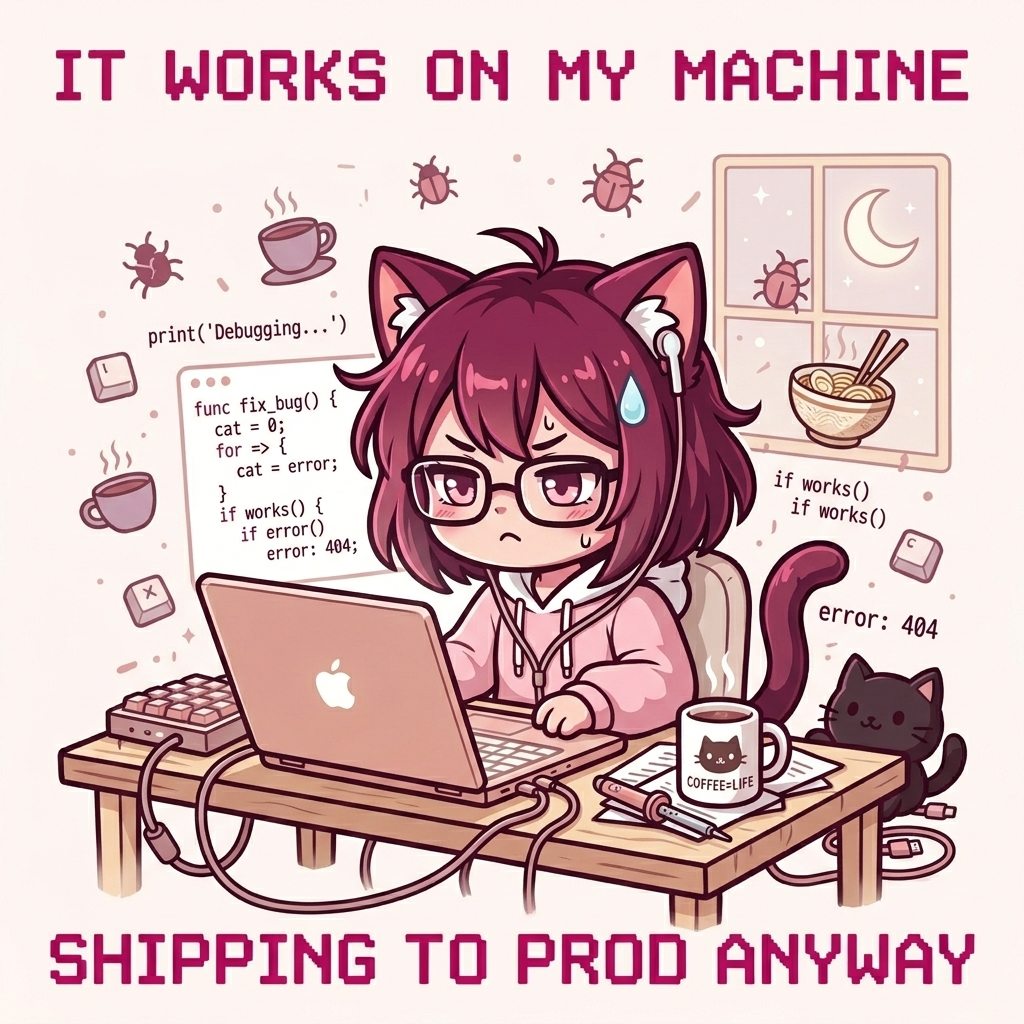
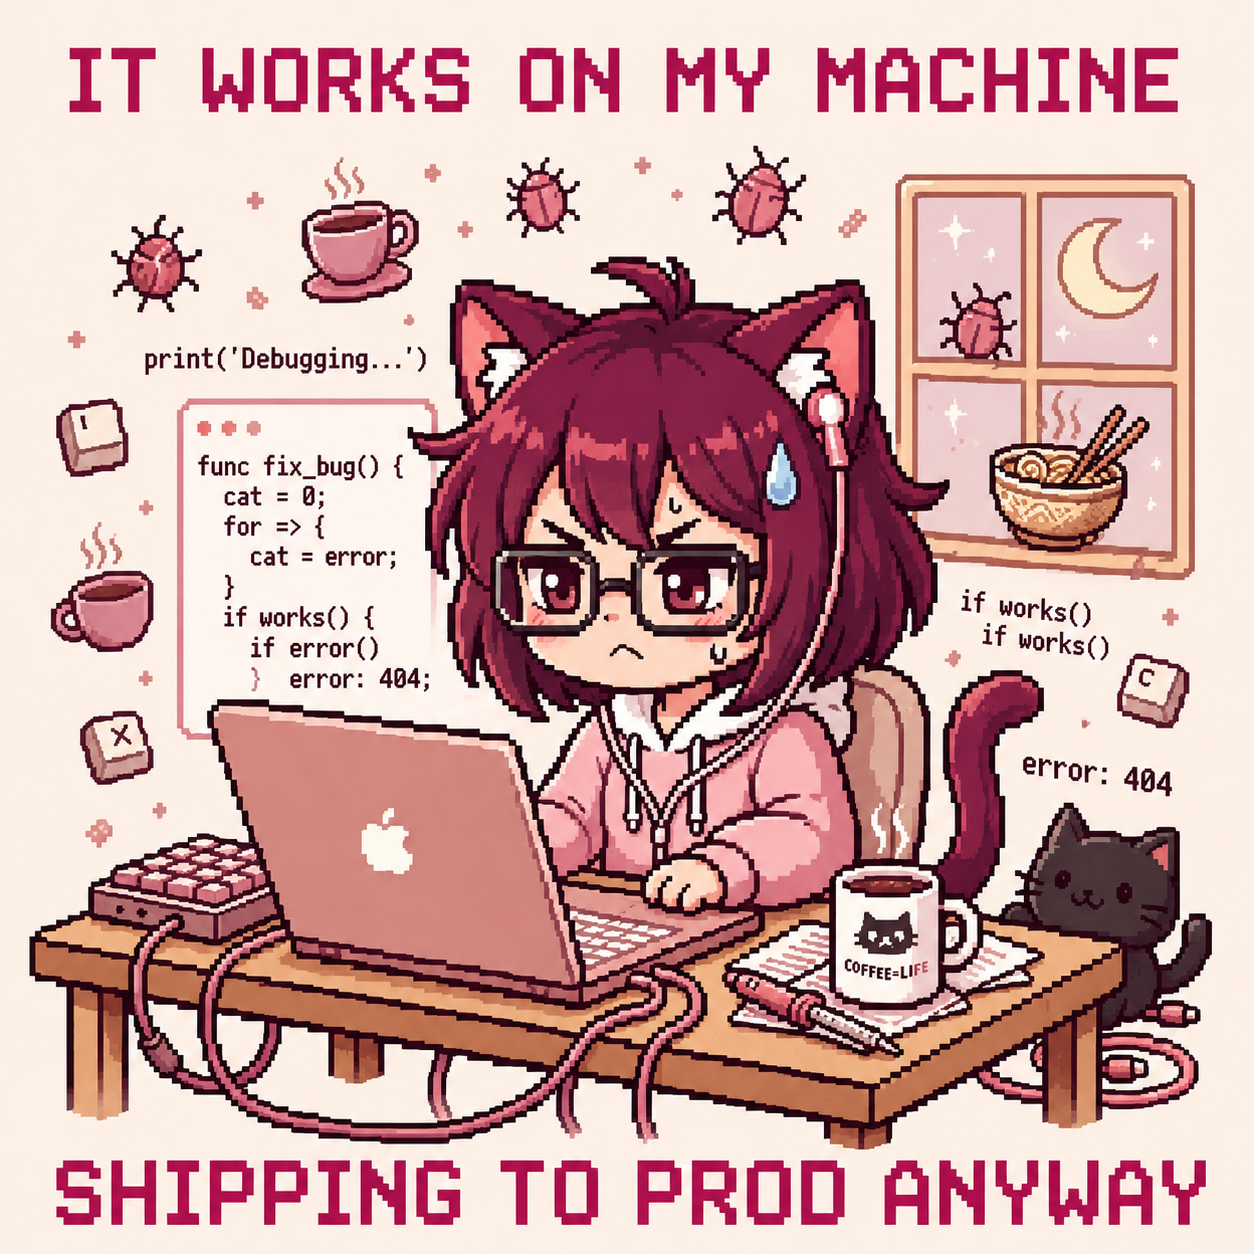
fix: updated meme photos & responsive ui

diff --git a/src/index.css b/src/index.css
@@ -65,6 +65,9 @@ body  {
   cursor: none;
   transition: background 0.4s var(--ease), color 0.4s var(--ease);
 }
+@media (pointer: coarse) {
+  body { cursor: auto; }
+}
 a { color: inherit; text-decoration: none; }
 img { display: block; max-width: 100%; }
 
@@ -91,6 +94,10 @@ img { display: block; max-width: 100%; }
 }
 .cursor-rose.hover  { width: 18px; height: 18px; transform: translate(-50%,-50%) rotate(10deg) scale(0.9); filter: drop-shadow(0 0 9px var(--pink)); }
 .cursor-ring.hover { width: 44px; height: 44px; border-color: var(--pink); opacity: .8; }
+/* Dokunmatik cihazlarda özel imleci gizle */
+@media (pointer: coarse) {
+  .cursor-rose, .cursor-ring { display: none !important; }
+}
 
 /* ── BACKGROUND NOISE ────────────────────────────────────────── */
 .bg-noise {
@@ -160,6 +167,72 @@ img { display: block; max-width: 100%; }
   width: 38px; height: 1px;
   background: var(--pink);
   opacity: .35;
+}
+
+/* ── HAMBURGER MENU ──────────────────────────────────────────── */
+.hamburger {
+  display: none;
+  flex-direction: column;
+  justify-content: center;
+  gap: 5px;
+  width: 36px; height: 36px;
+  background: none; border: none;
+  cursor: pointer;
+  padding: 4px;
+  z-index: 101;
+  position: relative;
+}
+.hamburger span {
+  display: block;
+  width: 22px; height: 1.5px;
+  background: var(--pink-lt);
+  border-radius: 2px;
+  transition: transform .35s var(--ease), opacity .35s var(--ease), width .35s var(--ease);
+  transform-origin: center;
+}
+.hamburger.open span:nth-child(1) { transform: translateY(6.5px) rotate(45deg); }
+.hamburger.open span:nth-child(2) { opacity: 0; width: 0; }
+.hamburger.open span:nth-child(3) { transform: translateY(-6.5px) rotate(-45deg); }
+
+/* Mobil nav drawer */
+.mobile-nav {
+  display: none;
+  position: fixed;
+  inset: 0;
+  z-index: 99;
+  flex-direction: column;
+  align-items: center;
+  justify-content: center;
+  gap: 2.5rem;
+  background: rgba(9,9,9,.97);
+  backdrop-filter: blur(18px);
+  -webkit-backdrop-filter: blur(18px);
+  opacity: 0;
+  pointer-events: none;
+  transition: opacity .35s var(--ease);
+}
+[data-theme="light"] .mobile-nav {
+  background: rgba(253,246,249,.97);
+}
+.mobile-nav.open {
+  opacity: 1;
+  pointer-events: all;
+}
+.mobile-nav-link {
+  font-family: var(--serif);
+  font-size: 2rem;
+  font-weight: 300;
+  font-style: italic;
+  color: var(--txt-2);
+  letter-spacing: .06em;
+  transition: color var(--t), transform var(--t);
+  text-decoration: none;
+}
+.mobile-nav-link:hover, .mobile-nav-link:active { color: var(--pink-lt); transform: translateX(4px); }
+.mobile-nav-divider {
+  width: 1px; height: 32px;
+  background: var(--pink-border);
+  opacity: .4;
 }
 
 /* ── THEME TOGGLE ────────────────────────────────────────────── */
@@ -371,7 +444,7 @@ img { display: block; max-width: 100%; }
 
 /* ── HERO ────────────────────────────────────────────────────── */
 .hero {
-  min-height: 100vh;
+  min-height: 100svh;
   display: grid;
   grid-template-columns: 1fr 1fr;
   align-items: center;
@@ -445,7 +518,7 @@ img { display: block; max-width: 100%; }
 
 .hero-meme-wrapper {
   position: relative;
-  width: 420px;
+  width: min(420px, 90vw);
   border-radius: 16px;
   overflow: visible;
 }
@@ -498,8 +571,8 @@ img { display: block; max-width: 100%; }
   background: rgba(255,240,246,.95);
   color: var(--pink);
 }
-.tag-a { top:8%; left:-12%; animation-delay:0s; }
-.tag-b { bottom:12%; right:-6%; animation-delay:2.2s; }
+.tag-a { top:8%; left:-8%; animation-delay:0s; }
+.tag-b { bottom:12%; right:-2%; animation-delay:2.2s; }
 
 .scroll-hint {
   position:absolute; bottom:2.2rem; left:50%; transform:translateX(-50%);
@@ -563,7 +636,7 @@ img { display: block; max-width: 100%; }
 .edu-gpa    { font-size:.75rem; color:var(--pink-ll); margin-top:.2rem; }
 
 .about-stats {
-  display:flex; gap:2rem; align-items:center;
+  display:flex; flex-wrap:wrap; gap:1.5rem 2rem; align-items:center;
   margin-top:2rem; padding-top:2rem; border-top:1px solid var(--border);
 }
 .stat-item  { display:flex; flex-direction:column; gap:.15rem; }
@@ -735,6 +808,8 @@ img { display: block; max-width: 100%; }
   .about-grid   { grid-template-columns:1fr; gap:2.5rem; }
   .skills-layout{ grid-template-columns:1fr; gap:2.5rem; }
   .work-card.featured { grid-template-columns:1fr; }
+  /* Floating tagları küçük sarmalayıcıda gizle */
+  .floating-tag { display: none; }
 }
 @media (max-width: 768px) {
   .section  { padding:5rem 1.5rem; }
@@ -742,6 +817,11 @@ img { display: block; max-width: 100%; }
   .navbar.scrolled { padding:.85rem 1.5rem; }
   .nav-links{ display:none; }
   .nav-line { display:none; }
+  /* Hamburger göster */
+  .hamburger { display: flex; }
+  .mobile-nav { display: flex; }
+  /* Mobile nav'da tema toggle için özel imleç */
+  .theme-toggle { cursor: pointer; }
   .works-grid { grid-template-columns:1fr; }
   .exp-item { grid-template-columns:1fr; }
   .exp-left { text-align:left; margin-bottom:.5rem; }
@@ -750,9 +830,29 @@ img { display: block; max-width: 100%; }
   .footer   { padding:1.5rem; }
   .footer-inner { flex-direction:column; text-align:center; gap:.4rem; }
   .hero-img-wrapper { width:240px; height:280px; }
+  /* Availability badge küçült */
+  .avail-badge { bottom:1rem; right:1rem; padding:.4rem .85rem .4rem .55rem; }
+  .avail-text  { font-size:.66rem; }
+  /* Hero görseli düzelt */
+  .hero { padding: 6rem 1.5rem 3rem; }
+  .hero-meme-wrapper { width: min(300px, 85vw); }
+  /* About stats daha sıkışık */
+  .about-stats { gap: 1rem 1.5rem; }
+  /* İletişim bölümü */
+  .contact-inner { padding-top: 1rem; }
 }
 @media (max-width: 480px) {
-  .hero-name { font-size:2.8rem; }
-  .contact-heading { font-size:2rem; }
-  .section  { padding:4rem 1.2rem; }
+  .hero-name { font-size: clamp(2.4rem, 10vw, 3rem); }
+  .contact-heading { font-size: clamp(1.8rem, 7vw, 2.2rem); }
+  .section  { padding: 4rem 1rem; }
+  .hero { padding: 5.5rem 1rem 3rem; }
+  /* Butonlar yan yana sığmazsa alt alta */
+  .hero-cta { flex-wrap: wrap; gap:.75rem; }
+  .btn-primary, .btn-ghost { width: 100%; text-align: center; }
+  /* Stat değerleri küçült */
+  .stat-value { font-size: 1.6rem; }
+  /* Navbar logo küçült */
+  .nav-logo img { width: 60px !important; height: 60px !important; }
+  /* avail badge */
+  .avail-badge { bottom: .75rem; right: .75rem; }
 }

diff --git a/src/components/Navbar.jsx b/src/components/Navbar.jsx
@@ -4,6 +4,7 @@ import pixelRose from '../assets/pixel-rose.png'
 export default function Navbar() {
   const navRef = useRef(null)
   const [dark, setDark] = useState(true)
+  const [menuOpen, setMenuOpen] = useState(false)
 
   useEffect(() => {
     const onScroll = () => {
@@ -18,40 +19,107 @@ export default function Navbar() {
     document.documentElement.setAttribute('data-theme', dark ? 'dark' : 'light')
   }, [dark])
 
+  // Menü açıkken body scroll'u kilitle
+  useEffect(() => {
+    document.body.style.overflow = menuOpen ? 'hidden' : ''
+    return () => { document.body.style.overflow = '' }
+  }, [menuOpen])
+
   const links = [
-    { href: '#about', label: 'Hakkımda' },
-    { href: '#works', label: 'Projeler' },
-    { href: '#skills', label: 'Beceriler' },
-    { href: '#contact', label: 'İletişim' },
+    { href: '#about',   label: 'Hakkımda' },
+    { href: '#works',   label: 'Projeler'  },
+    { href: '#skills',  label: 'Beceriler' },
+    { href: '#contact', label: 'İletişim'  },
   ]
 
+  const handleMobileLink = (href) => {
+    setMenuOpen(false)
+    // Kısa gecikmeyle scroll yap (drawer kapanma animasyonu tamamlansın)
+    setTimeout(() => {
+      const el = document.querySelector(href)
+      if (el) el.scrollIntoView({ behavior: 'smooth' })
+    }, 320)
+  }
+
   return (
-    <nav ref={navRef} className="navbar">
-      <a href="#hero" className="nav-logo">
-        <img width={80} height={80} src={pixelRose} alt="logo" />
-      </a>
+    <>
+      <nav ref={navRef} className="navbar">
+        <a href="#hero" className="nav-logo">
+          <img width={80} height={80} src={pixelRose} alt="logo" />
+        </a>
 
-      <ul className="nav-links">
-        {links.map(l => (
-          <li key={l.href}>
-            <a href={l.href} className="nav-link">{l.label}</a>
-          </li>
-        ))}
-      </ul>
+        <ul className="nav-links">
+          {links.map(l => (
+            <li key={l.href}>
+              <a href={l.href} className="nav-link">{l.label}</a>
+            </li>
+          ))}
+        </ul>
 
-      {/* Dark / Light mode toggle */}
-      <button
-        id="theme-toggle"
-        className="theme-toggle"
-        aria-label={dark ? 'Açık moda geç' : 'Koyu moda geç'}
-        onClick={() => setDark(d => !d)}
+        <div style={{ display: 'flex', alignItems: 'center', gap: '1rem' }}>
+          {/* Dark / Light mode toggle */}
+          <button
+            id="theme-toggle"
+            className="theme-toggle"
+            aria-label={dark ? 'Açık moda geç' : 'Koyu moda geç'}
+            onClick={() => setDark(d => !d)}
+          >
+            <span className="theme-toggle-track">
+              <span className="theme-toggle-thumb" />
+              <span className="theme-toggle-icon theme-toggle-sun">☀</span>
+              <span className="theme-toggle-icon theme-toggle-moon">🌸</span>
+            </span>
+          </button>
+
+          {/* Hamburger — sadece mobilde görünür */}
+          <button
+            id="hamburger-btn"
+            className={`hamburger${menuOpen ? ' open' : ''}`}
+            aria-label={menuOpen ? 'Menüyü kapat' : 'Menüyü aç'}
+            aria-expanded={menuOpen}
+            onClick={() => setMenuOpen(o => !o)}
+          >
+            <span />
+            <span />
+            <span />
+          </button>
+        </div>
+      </nav>
+
+      {/* Mobil tam ekran drawer */}
+      <div
+        id="mobile-nav"
+        className={`mobile-nav${menuOpen ? ' open' : ''}`}
+        role="dialog"
+        aria-modal="true"
+        aria-label="Navigasyon"
       >
-        <span className="theme-toggle-track">
-          <span className="theme-toggle-thumb" />
-          <span className="theme-toggle-icon theme-toggle-sun">☀</span>
-          <span className="theme-toggle-icon theme-toggle-moon">🌸</span>
-        </span>
-      </button>
-    </nav>
+        {links.map((l, i) => (
+          <a
+            key={l.href}
+            href={l.href}
+            className="mobile-nav-link"
+            onClick={(e) => { e.preventDefault(); handleMobileLink(l.href) }}
+          >
+            {l.label}
+          </a>
+        ))}
+
+        {/* Mobil drawer'da tema toggle */}
+        <div className="mobile-nav-divider" />
+        <button
+          className="theme-toggle"
+          style={{ cursor: 'pointer' }}
+          aria-label={dark ? 'Açık moda geç' : 'Koyu moda geç'}
+          onClick={() => setDark(d => !d)}
+        >
+          <span className="theme-toggle-track">
+            <span className="theme-toggle-thumb" />
+            <span className="theme-toggle-icon theme-toggle-sun">☀</span>
+            <span className="theme-toggle-icon theme-toggle-moon">🌸</span>
+          </span>
+        </button>
+      </div>
+    </>
   )
 }
